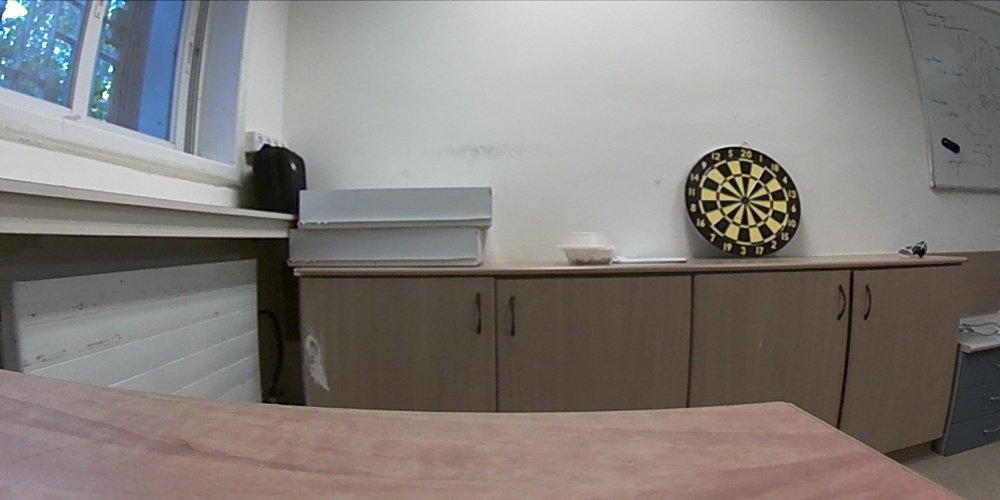
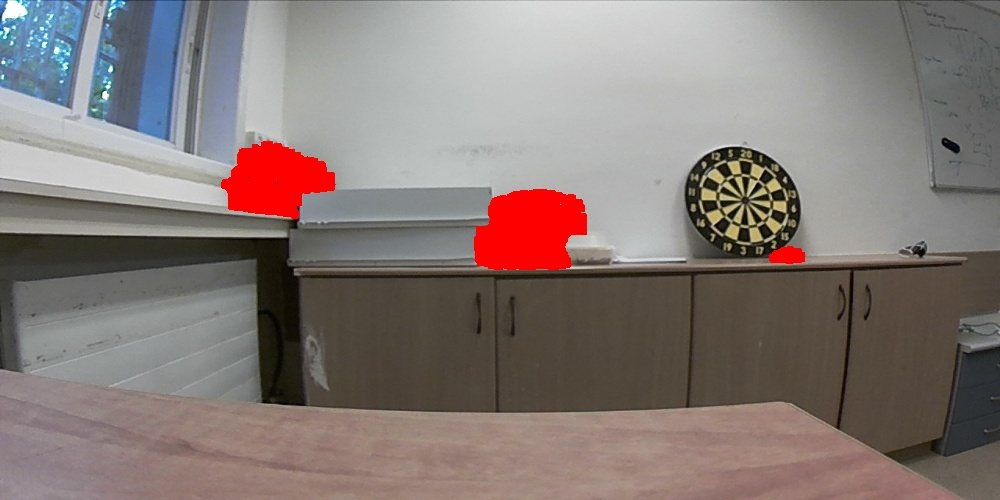
Played with Parameters

Changed region(s): [[0.465, 0.36, 0.589, 0.54], [0.217, 0.27, 0.341, 0.45], [0.744, 0.48, 0.806, 0.54]]

diff --git a/image_processing.py b/image_processing.py
@@ -6,6 +6,10 @@ import numpy as np
 MIN_CNT_SIZE = 30
 DIFFERENCE_THRESHOLD = 70
 
+LEARNING_RATE = 0.005
+STAY_FACTOR = 20
+INF = 100000
+
 # BACK_SUB = cv2.createBackgroundSubtractorMOG2()
 # BACK_SUB = cv2.bgsegm.createBackgroundSubtractorGMG(4, 0.8)
 
@@ -59,19 +63,19 @@ def diff_method5(im1, im2):
     return back_sub(im1, im2, BACK_SUB3)
 
 
-
-
 def back_sub(im1, im2, back_sub):
     im2 = cv2.cvtColor(im2, cv2.COLOR_BGR2GRAY)
     # im2 = cv2.equalizeHist(im2)
     im2 = cv2.GaussianBlur(im2, (5, 5), 0)
-    fgmask = back_sub.apply(im2, learningRate=0.05)
+    fgmask = back_sub.apply(im2, learningRate=LEARNING_RATE)
 
     kernel = np.ones((EDGE_THICKNESS, EDGE_THICKNESS), np.uint8)
     fgmask = cv2.dilate(fgmask, kernel)
 
     cv2.imshow("Difference ", fgmask)
     k = cv2.waitKey(300) & 0xff
+
+    fgmask[fgmask > 0] = 1
     return fgmask
 
 
@@ -176,6 +180,9 @@ def update_changes(mask, history, diff):
     history[diff == 0] -= 2
     history[np.bitwise_and(diff == 1, history < 0)] = 0
     history[diff == 1] += 1
+
+    # check for persistent changes
+    history[history > STAY_FACTOR] = INF
 
     # create mask based on history
     new_mask = history.copy()

diff --git a/get_diffs.py b/get_diffs.py
@@ -1,8 +1,6 @@
 import cv2
 import os
-import random
 import time
-import numpy as np
 
 import image_processing
 
@@ -10,12 +8,11 @@ import image_processing
 DIFF_METHODS = [
     image_processing.diff_method1,
     image_processing.diff_method2,
-    image_processing.diff_method3,
     image_processing.diff_method4,
     image_processing.diff_method5
 ]
 
-DIFF_METHOD = 2
+DIFF_METHOD = 3
 
 
 def run_session(session=None, viz=True):
